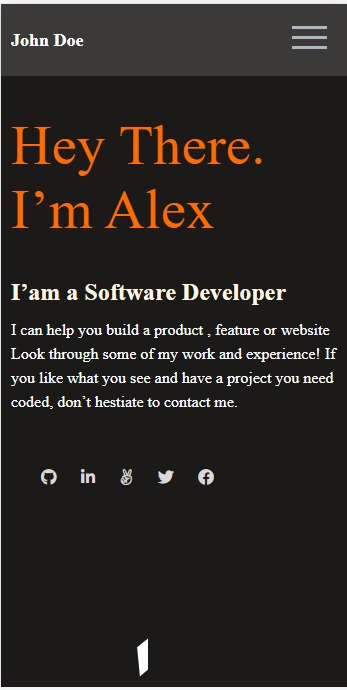
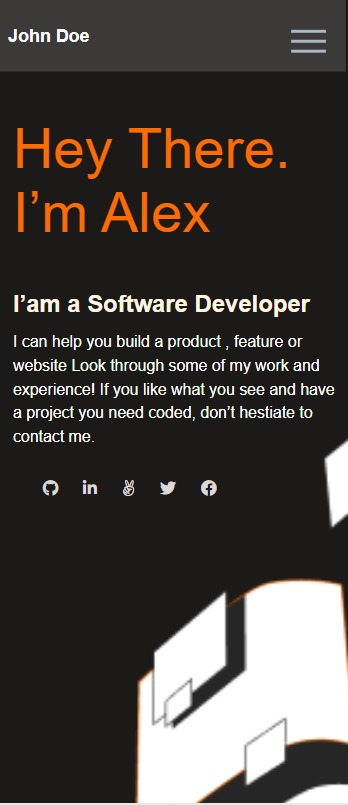
change project screenshoot

diff --git a/style.css b/style.css
@@ -21,8 +21,12 @@ header {
   margin-right: 10px;
 }
 
+.logo a {
+  color: #fff;
+  text-decoration: none;
+}
 .menu1 {
-  margin-top: 15px;
+  margin-top: 30px;
   margin-right: 10px;
 }
 
@@ -49,6 +53,7 @@ header {
   height: 100vh;
   width: 100%;
   background-size: cover;
+  margin-left: 5px;
 }
 
 section.main-text {
@@ -180,11 +185,4 @@ section.main-text {
   display: flex;
   width: 50%;
   justify-content: space-between;
-}
-
-.mobile-image {
-  display: flex;
-  flex-wrap: wrap;
-  justify-content: flex-end;
-  flex-direction: column;
 }

diff --git a/index.html b/index.html
@@ -13,13 +13,15 @@
 </head>
 <body>
     <header>
+        <div class="nav-list">
         <h4 class="logo"><a href="#">John Doe</a></h4>
-        <nav class="nav-list">
+        <nav>
             <div class="menu1">
                 <div class="menu"></div>
                 <div class="menu"></div>
                 <div class="menu"></div>
             </div>
+        </div>
         </nav>
     </header>
         <main>
